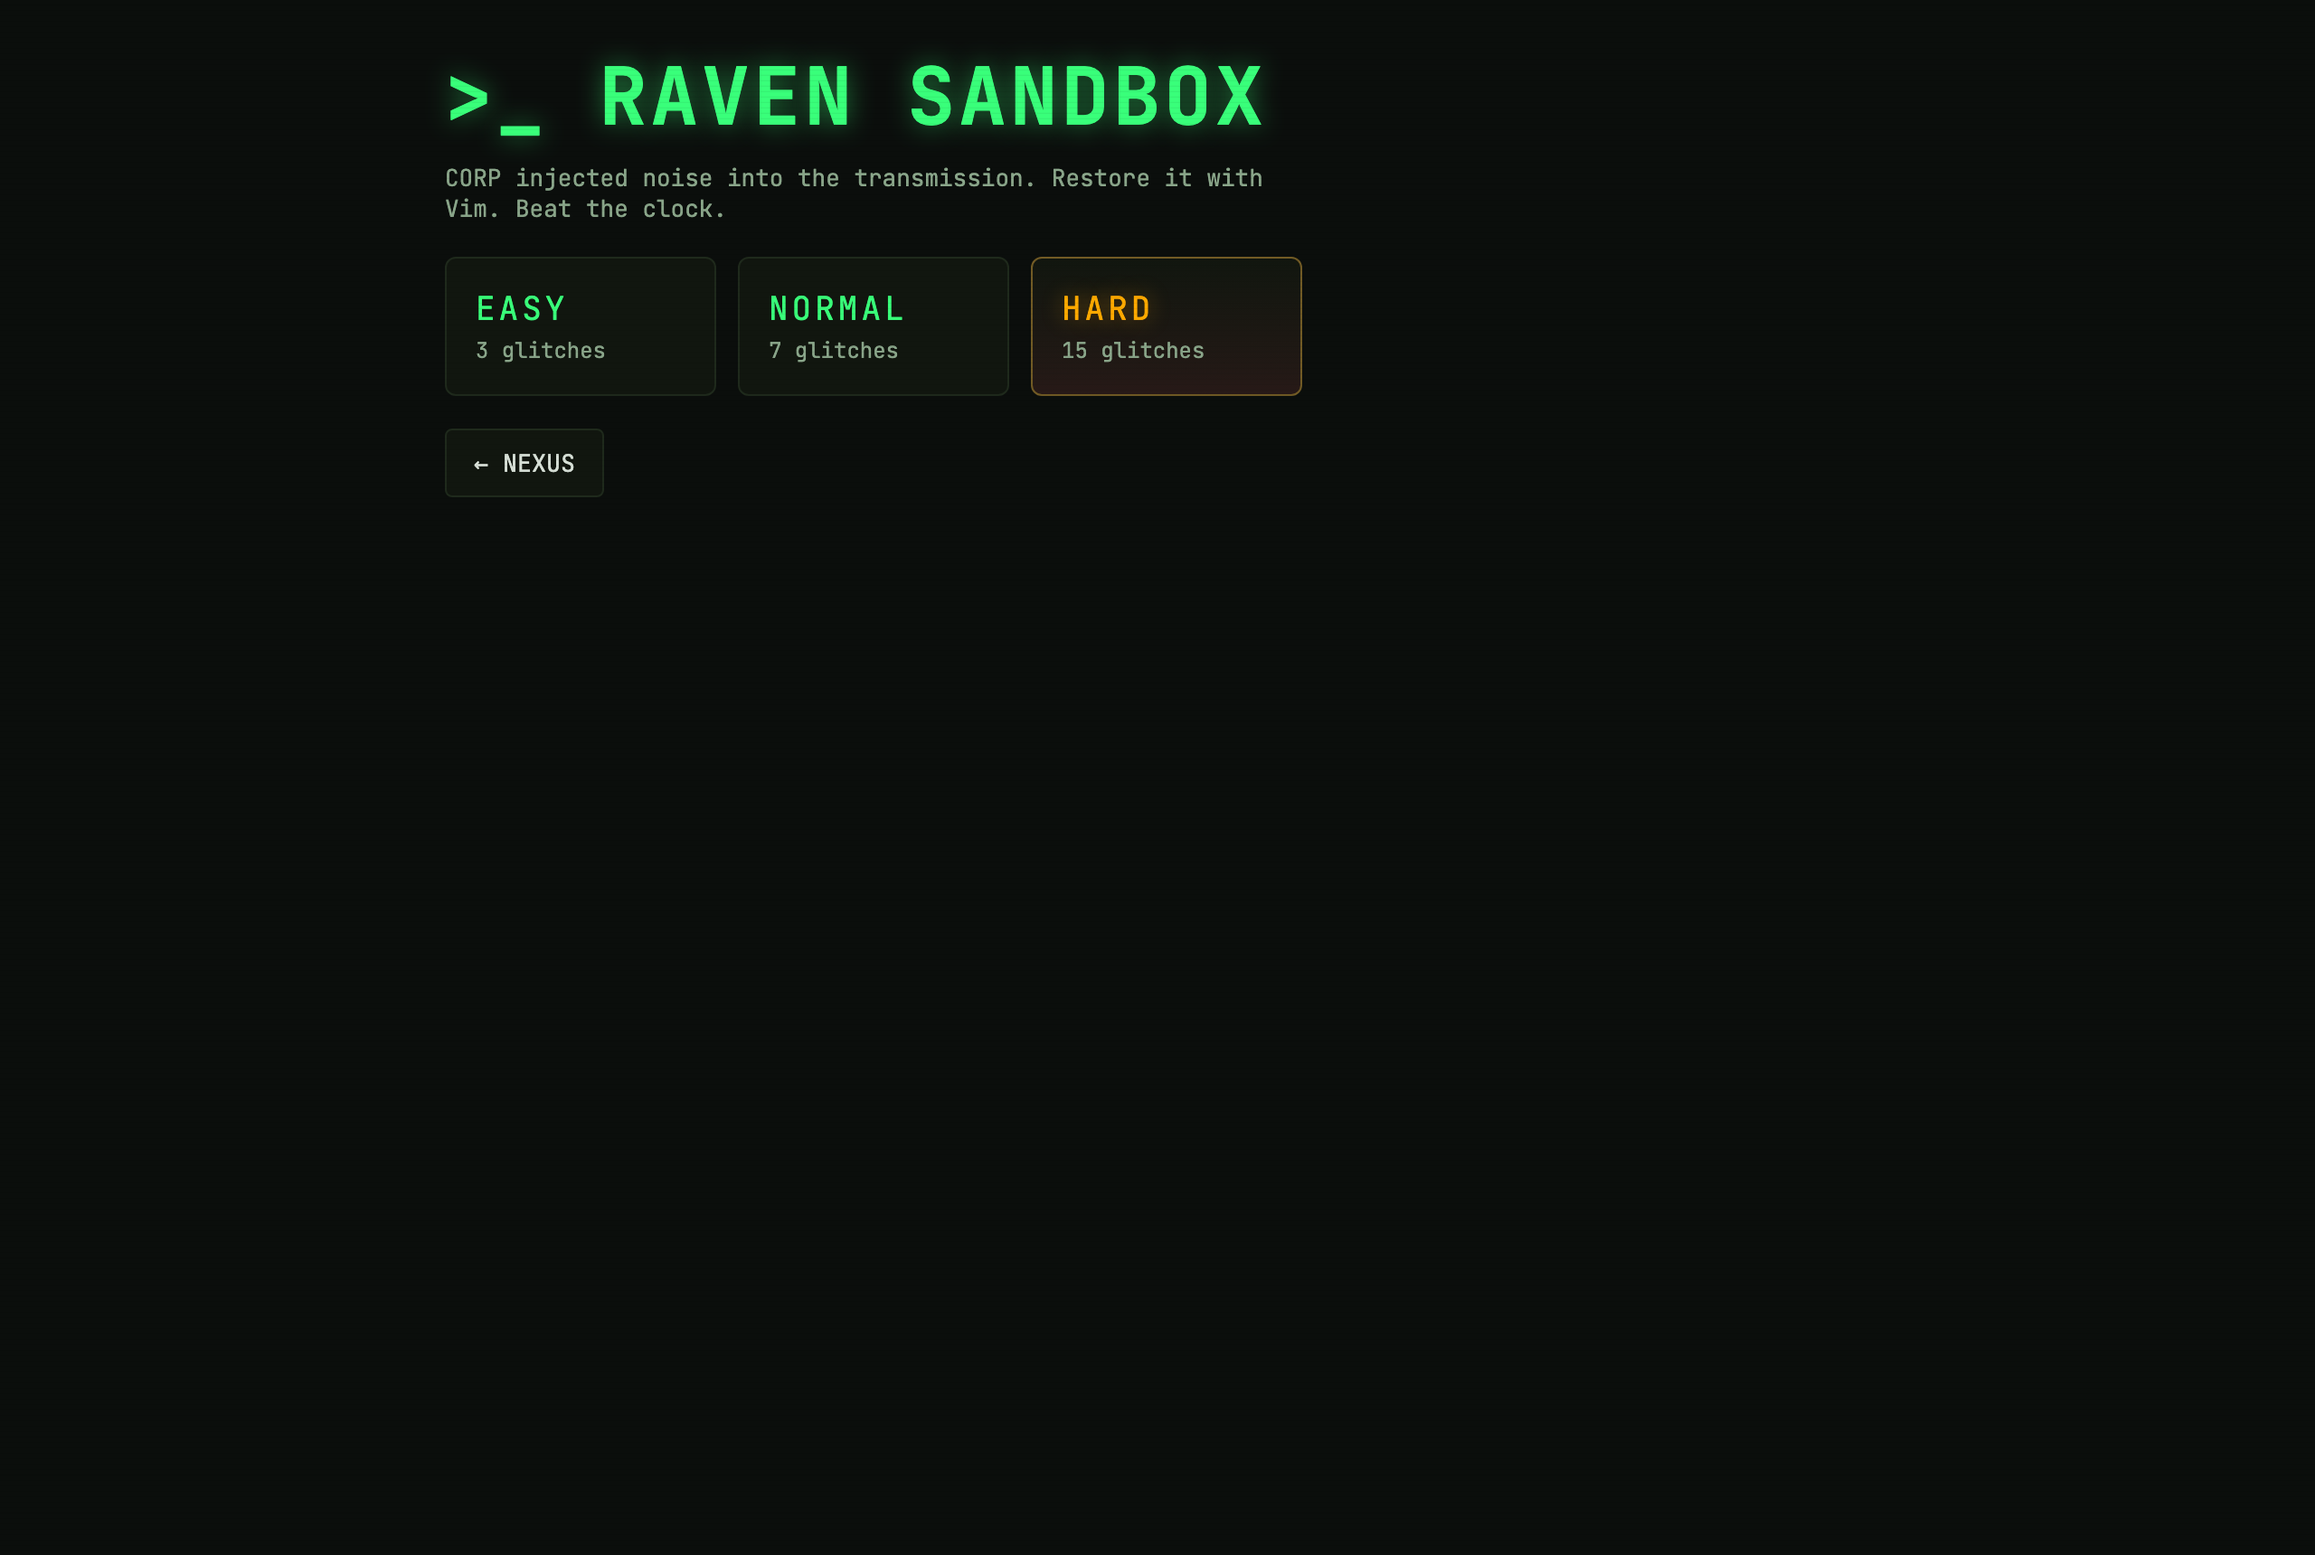
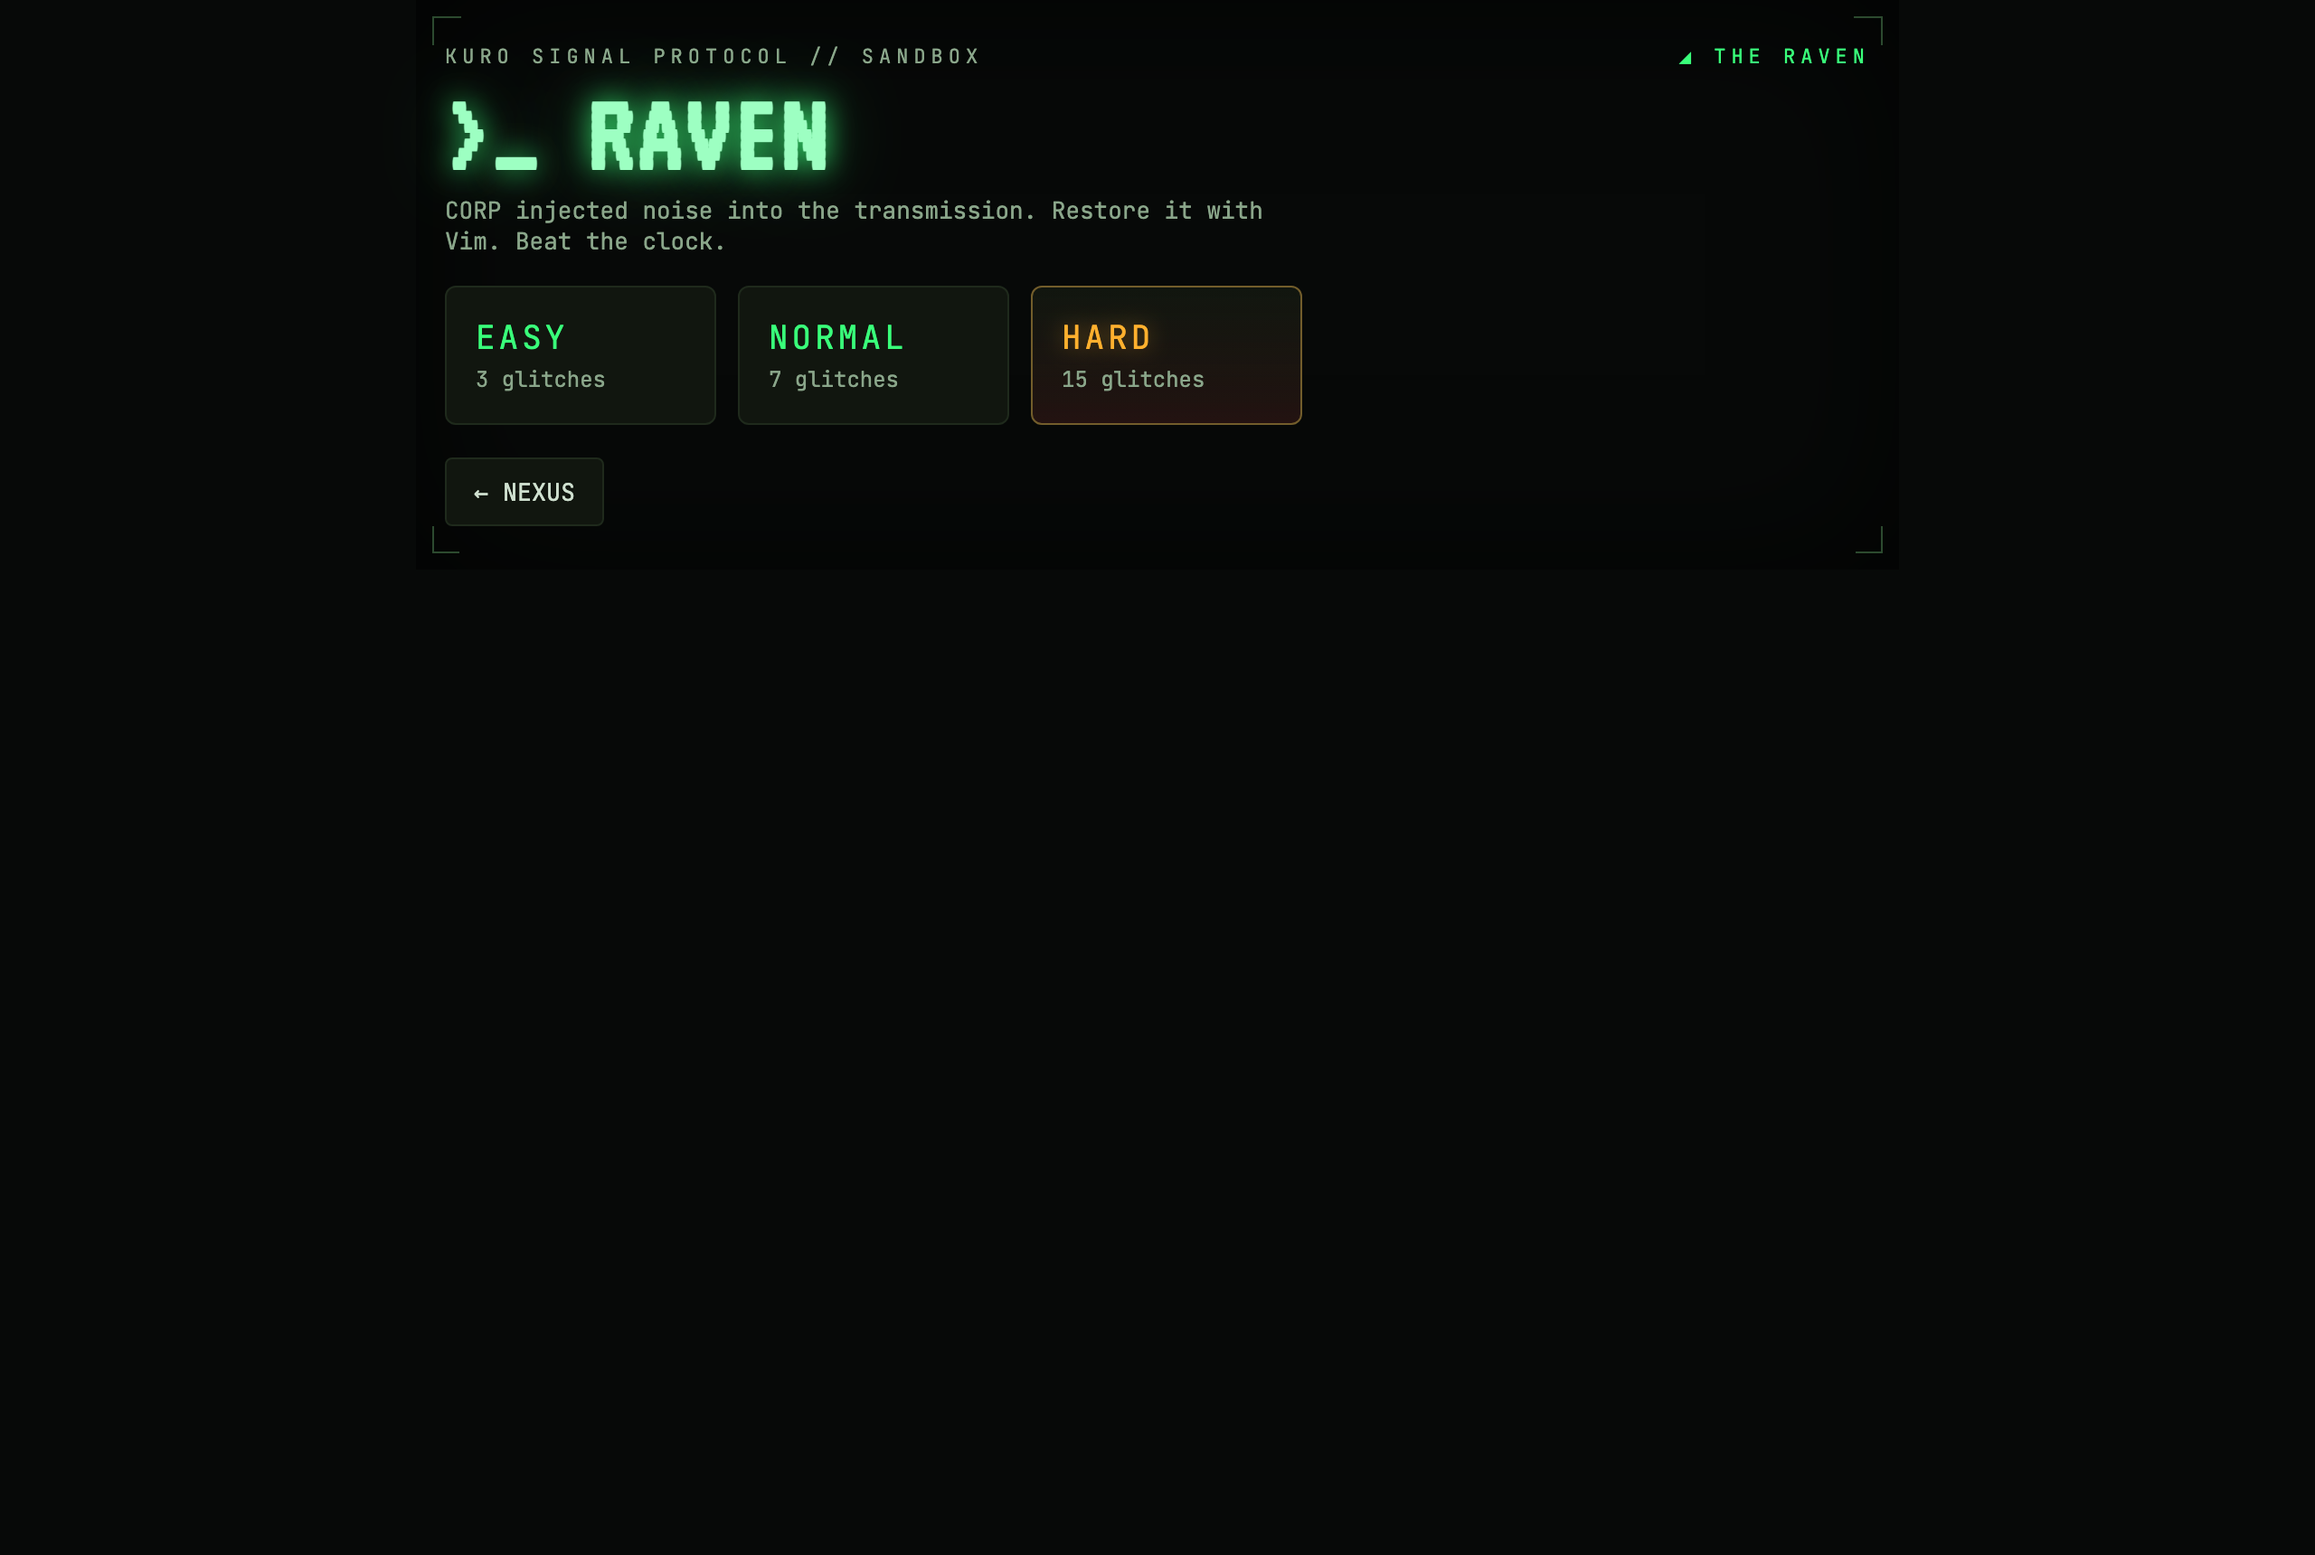
fix(adapter-web): re-apply T1 sandbox pick overhaul (T2 had reverted it) + screenshot
The T2 implementer rewrote SandboxView/styles from a stale base and
clobbered Task 1's CRT-frame + VT323 RAVEN header (and the nexus-head
removal). Re-applied; missKey/flash from T2 kept intact.

Changed region(s): [[0.1875, 0.0308, 0.5625, 0.339], [0.4375, 0.1849, 0.5625, 0.2773], [0.3125, 0.1849, 0.4062, 0.2465]]

diff --git a/packages/adapter-web/src/styles.css b/packages/adapter-web/src/styles.css
@@ -138,12 +138,6 @@ button { font-family: inherit; cursor: pointer; }
    NEXUS — hub
    ============================================================================= */
 
-/* .nv-nexus-head h1 is kept: SandboxView (pick phase) still uses .nv-nexus-head */
-.nv-nexus-head h1 {
-  color: var(--nv-accent); margin: 0 0 8px; letter-spacing: 2px; font-size: clamp(30px, 5vw, 44px);
-  text-shadow: 0 0 calc(16px * var(--nv-glow)) color-mix(in oklab, var(--nv-accent) 45%, transparent);
-}
-
 .nv-nexus { padding: var(--nv-s6) var(--nv-s4) var(--nv-s6); }
 .nv-statusstrip { display: flex; justify-content: space-between; gap: var(--nv-s3); }
 .nv-statusstrip .nv-link { color: var(--nv-accent); }
@@ -297,7 +291,7 @@ button { font-family: inherit; cursor: pointer; }
    SANDBOX (THE RAVEN)
    ============================================================================= */
 .nv-sandbox-intro { color: var(--nv-muted); font-size: 13px; margin: 0 0 4px; max-width: 60ch; }
-.nv-sandbox-diffs { display: flex; flex-wrap: wrap; gap: 12px; margin: 18px 0; }
+.nv-sandbox-diffs { display: flex; flex-wrap: wrap; gap: 12px; margin: var(--nv-s4) 0 18px; }
 .nv-sandbox-diff { position: relative; display: flex; flex-direction: column; gap: 4px; min-width: 150px; background: var(--nv-panel); color: var(--nv-text); border: 1px solid var(--nv-border); border-radius: 6px; padding: 16px; text-align: left; transition: border-color 0.15s, transform 0.1s, box-shadow 0.15s; }
 .nv-sandbox-diff:hover { border-color: var(--nv-accent); transform: translateY(-2px); box-shadow: 0 0 26px -10px color-mix(in oklab, var(--nv-accent) 50%, transparent); }
 .nv-sandbox-diff-name { color: var(--nv-accent); letter-spacing: 2px; font-size: 18px; }

diff --git a/packages/adapter-web/src/ui/SandboxView.tsx b/packages/adapter-web/src/ui/SandboxView.tsx
@@ -96,11 +96,11 @@ export function SandboxView({ bests, onNewBest, onExit }: Props) {
 
   if (phase === 'pick') {
     return (
-      <div class="nv-app">
-        <header class="nv-nexus-head">
-          <h1>&gt;_ RAVEN SANDBOX</h1>
-          <p class="nv-sandbox-intro">CORP injected noise into the transmission. Restore it with Vim. Beat the clock.</p>
-        </header>
+      <div class="nv-app nv-crt nv-hud-frame">
+        <div class="nv-scan" /><div class="nv-vig" /><span class="nv-br-bl" /><span class="nv-br-br" />
+        <div class="nv-statusstrip"><span class="nv-label">Kuro Signal Protocol // Sandbox</span><span class="nv-label nv-link">◢ THE RAVEN</span></div>
+        <h1 class="nv-wordmark nv-text-glow">&gt;_ RAVEN<span class="nv-caret">_</span></h1>
+        <p class="nv-sandbox-intro">CORP injected noise into the transmission. Restore it with Vim. Beat the clock.</p>
         <div class="nv-sandbox-diffs">
           {DIFFS.map((d) => (
             <button key={d} class="nv-sandbox-diff" onClick={() => begin(d)}>
